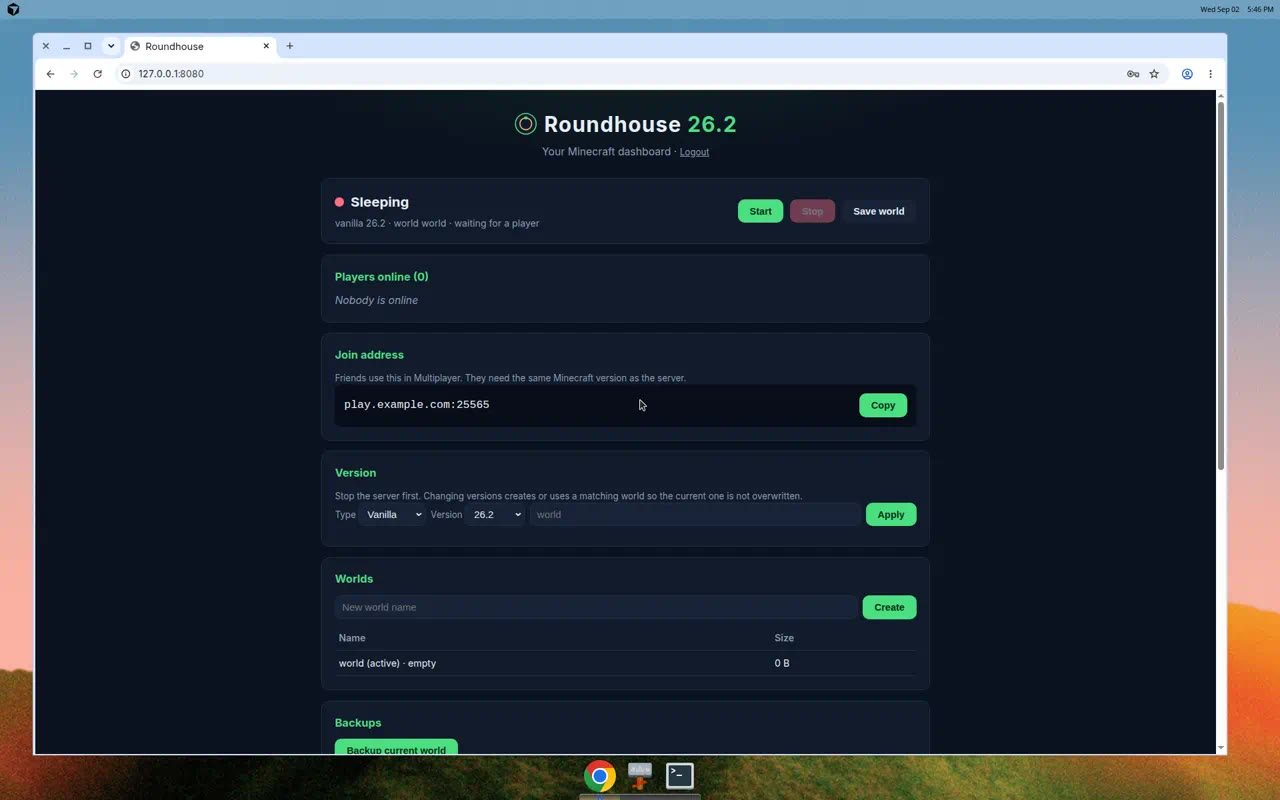
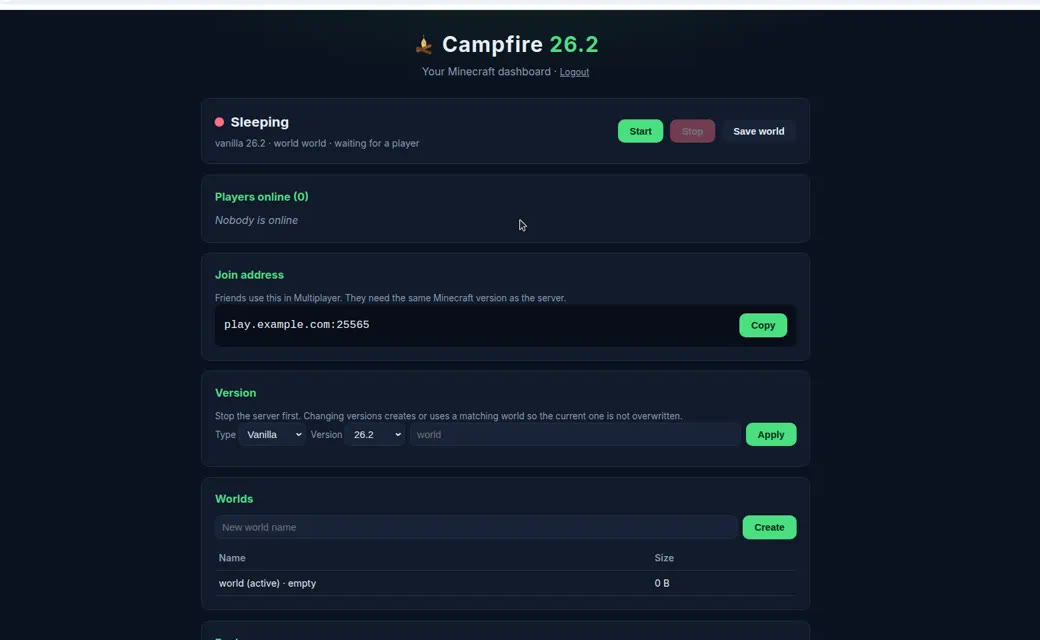
Rename to Campfire and use real dashboard screenshots
Replace the Roundhouse name and AI promo art with a campfire mark
and screenshots of the actual login, dashboard, and after-deploy steps.
Stop Cursor from landing on commits: author as Random, --no-verify, and
hooks that drop Co-authored-by trailers.

diff --git a/templates/index.html b/templates/index.html
@@ -3,7 +3,7 @@
 <head>
   <meta charset="UTF-8">
   <meta name="viewport" content="width=device-width, initial-scale=1.0">
-  <title>Roundhouse</title>
+  <title>Campfire</title>
   <style>
     *, *::before, *::after { box-sizing: border-box; margin: 0; padding: 0; }
     :root {
@@ -119,6 +119,18 @@
     .guide-section ol, .guide-section ul { padding-left: 20px; margin-top: 8px; }
     .guide-section li { margin-bottom: 6px; }
     .guide-section code { background: var(--card); padding: 2px 6px; border-radius: 3px; }
+    .steps { display: grid; gap: 10px; margin-top: 10px; }
+    .step {
+      display: flex; gap: 12px; align-items: flex-start;
+      background: var(--card); border-radius: 10px; padding: 12px 14px;
+    }
+    .step .num {
+      flex: 0 0 28px; height: 28px; border-radius: 50%;
+      background: var(--green); color: #052e16; font-weight: 800;
+      display: flex; align-items: center; justify-content: center;
+    }
+    .step strong { display: block; }
+    .step p { color: var(--muted); font-size: 0.9rem; margin-top: 2px; }
     .note { color: var(--muted); font-size: 0.85rem; margin-top: 8px; }
     .error { color: var(--accent); font-size: 0.9rem; margin-top: 8px; }
     @media (max-width: 600px) {
@@ -132,11 +144,12 @@
     <header>
       <div class="brand">
         <svg viewBox="0 0 64 64" aria-hidden="true">
-          <circle cx="32" cy="32" r="28" fill="#121a2b" stroke="#4ade80" stroke-width="3"/>
-          <circle cx="32" cy="32" r="16" fill="none" stroke="#f5c16c" stroke-width="3"/>
-          <rect x="28" y="12" width="8" height="8" rx="1" fill="#4ade80"/>
+          <path d="M32 6c-4 14 10 16 6 30-1 6-6 10-6 10s-5-4-6-10C22 22 36 20 32 6z" fill="#f5c16c"/>
+          <path d="M32 20c-2 7 5 8 3 14-3-1-6-6-3-14z" fill="#fb7185"/>
+          <rect x="10" y="40" width="44" height="8" rx="4" transform="rotate(-22 32 44)" fill="#8b5a2b"/>
+          <rect x="10" y="46" width="44" height="8" rx="4" transform="rotate(22 32 50)" fill="#6b4220"/>
         </svg>
-        <h1>Roundhouse <span id="headerVersion"></span></h1>
+        <h1>Campfire <span id="headerVersion"></span></h1>
       </div>
       <p>Your Minecraft dashboard &middot; <a href="/api/logout">Logout</a></p>
     </header>
@@ -249,18 +262,28 @@
 
     <div class="tabs">
       <button class="tab active" onclick="switchTab('logs', this)">Logs</button>
-      <button class="tab" onclick="switchTab('guide', this)">How this works</button>
+      <button class="tab" onclick="switchTab('guide', this)">After deploy</button>
     </div>
     <div id="tab-logs" class="card tabbed-card tab-content active">
       <div id="logViewer" class="log-viewer">Waiting for logs...</div>
     </div>
     <div id="tab-guide" class="card tabbed-card tab-content">
       <details class="guide-section" open>
-        <summary>Join the server</summary>
+        <summary>Do this once in Railway</summary>
+        <div class="steps">
+          <div class="step"><span class="num">1</span><div><strong>Save the world</strong><p>Add a volume and mount it at <code>/server/data</code>.</p></div></div>
+          <div class="step"><span class="num">2</span><div><strong>Open the game port</strong><p>Add a TCP proxy on port <code>25565</code>. Copy the host:port Railway gives you.</p></div></div>
+          <div class="step"><span class="num">3</span><div><strong>Set a dashboard password</strong><p>Add variable <code>ADMIN_KEY</code> and pick a password you will remember.</p></div></div>
+          <div class="step"><span class="num">4</span><div><strong>Show the join address</strong><p>Add variable <code>MC_PUBLIC_ADDRESS</code> and paste the TCP host:port from step 2.</p></div></div>
+          <div class="step"><span class="num">5</span><div><strong>Open this dashboard</strong><p>Click the Railway web URL, log in with <code>ADMIN_KEY</code>, then press Start when friends are ready.</p></div></div>
+        </div>
+      </details>
+      <details class="guide-section">
+        <summary>Join from Minecraft</summary>
         <ol>
-          <li>Use the official Minecraft Launcher and the same version shown at the top of this page</li>
-          <li>Go to Multiplayer and paste the join address</li>
-          <li>If the world is sleeping, wait about 30 seconds and connect again</li>
+          <li>Use the official launcher and the same version shown at the top of this page</li>
+          <li>Multiplayer → paste the join address</li>
+          <li>If it is sleeping, wait about 30 seconds and connect again</li>
         </ol>
       </details>
       <details class="guide-section">
@@ -269,14 +292,6 @@
           <li>Stop the server, pick vanilla, Fabric, Forge, or a modpack, then Apply</li>
           <li>Give the new version its own world name</li>
           <li>You do not need to redeploy Railway to switch</li>
-        </ul>
-      </details>
-      <details class="guide-section">
-        <summary>Everyday use</summary>
-        <ul>
-          <li>The server sleeps after 10 minutes with nobody online</li>
-          <li>Back up a world before you experiment</li>
-          <li>Keep your dashboard key private</li>
         </ul>
       </details>
     </div>

diff --git a/.railway/railway.ts b/.railway/railway.ts
@@ -6,7 +6,7 @@ export default defineRailway(() => {
   });
 
   const minecraft = service("Minecraft", {
-    source: github("rndaom/roundhouse"),
+    source: github("rndaom/campfire"),
     start: "./start.sh",
     healthcheck: "/health",
     healthcheckTimeout: 300,
@@ -23,7 +23,7 @@ export default defineRailway(() => {
     },
   });
 
-  return project("Roundhouse", {
+  return project("Campfire", {
     resources: [minecraft, world],
   });
 });

diff --git a/mc_host/config.py b/mc_host/config.py
@@ -35,13 +35,13 @@ LOGIN_HTML = """\
 <head>
   <meta charset="UTF-8">
   <meta name="viewport" content="width=device-width, initial-scale=1.0">
-  <title>Roundhouse</title>
+  <title>Campfire</title>
   <style>
     *{margin:0;padding:0;box-sizing:border-box}
     body{font-family:ui-sans-serif,system-ui,sans-serif;background:#0b1220;color:#e7edf5;
          display:flex;align-items:center;justify-content:center;min-height:100vh}
     .card{background:#121a2b;border:1px solid #22304a;border-radius:16px;padding:36px;width:360px}
-    .mark{width:48px;height:48px;margin:0 auto 16px;display:block}
+    .mark{width:56px;height:56px;margin:0 auto 16px;display:block}
     h2{color:#4ade80;margin-bottom:6px;text-align:center;letter-spacing:.04em}
     p{color:#8b9bb4;text-align:center;font-size:.92rem;margin-bottom:18px}
     input{width:100%;padding:12px;border-radius:10px;border:1px solid #2a3a55;
@@ -56,11 +56,12 @@ LOGIN_HTML = """\
 <body>
   <div class="card">
     <svg class="mark" viewBox="0 0 64 64" aria-hidden="true">
-      <circle cx="32" cy="32" r="28" fill="#121a2b" stroke="#4ade80" stroke-width="3"/>
-      <circle cx="32" cy="32" r="16" fill="none" stroke="#f5c16c" stroke-width="3"/>
-      <rect x="28" y="12" width="8" height="8" rx="1" fill="#4ade80"/>
+      <path d="M32 6c-4 14 10 16 6 30-1 6-6 10-6 10s-5-4-6-10C22 22 36 20 32 6z" fill="#f5c16c"/>
+      <path d="M32 20c-2 7 5 8 3 14-3-1-6-6-3-14z" fill="#fb7185"/>
+      <rect x="10" y="40" width="44" height="8" rx="4" transform="rotate(-22 32 44)" fill="#8b5a2b"/>
+      <rect x="10" y="46" width="44" height="8" rx="4" transform="rotate(22 32 50)" fill="#6b4220"/>
     </svg>
-    <h2>Roundhouse</h2>
+    <h2>Campfire</h2>
     <p>Dashboard login</p>
     {error}
     <form method="POST" action="/api/login">

diff --git a/tests/test_runtime.py b/tests/test_runtime.py
@@ -396,7 +396,7 @@ class HttpServerTests(unittest.TestCase):
             self.assertIn("running", payload)
             self.assertIn("installing", payload)
             self.assertEqual(payload["minecraft_version"], "26.2")
-            self.assertEqual(payload["product"], "Roundhouse")
+            self.assertEqual(payload["product"], "Campfire")
             self.assertFalse(payload["legacy"])
             self.assertFalse(payload["running"])
         finally:

diff --git a/installer.py b/installer.py
@@ -27,8 +27,8 @@ MOJANG_PROFILE_URL = "https://api.mojang.com/users/profiles/minecraft/{name}"
 FABRIC_INSTALLER_PIN = os.environ.get("FABRIC_INSTALLER_VERSION", "").strip()
 FABRIC_LOADER_PIN = os.environ.get("FABRIC_LOADER_VERSION", "").strip()
 
-APP_NAME = "Roundhouse"
-APP_USER_AGENT = "Roundhouse/1.0"
+APP_NAME = "Campfire"
+APP_USER_AGENT = "Campfire/1.0"
 VERSION_LATEST = "latest"
 FALLBACK_RELEASE = "26.2"
 _latest_cache: str | None = None

diff --git a/manager.py b/manager.py
@@ -1,6 +1,6 @@
 #!/usr/bin/env python3
 """
-Roundhouse entry point.
+Campfire entry point.
 
 Sleep proxy, process control, and the dashboard live in `mc_host`.
 Production launches this file: `python3 /server/manager.py`.

diff --git a/README.md b/README.md
@@ -1,8 +1,8 @@
 <p align="center">
-  <img src="docs/assets/logo.svg" width="88" alt="Roundhouse">
+  <img src="docs/assets/logo.svg" width="72" alt="Campfire">
 </p>
 
-<h1 align="center">Roundhouse</h1>
+<h1 align="center">Campfire</h1>
 
 <p align="center">
   A Minecraft server that starts when your friends join.<br>
@@ -10,59 +10,48 @@
 </p>
 
 <p align="center">
-  <a href="https://railway.com/new?template=https://github.com/rndaom/roundhouse">
+  <a href="https://railway.com/new?template=https://github.com/rndaom/campfire">
     <img src="https://railway.com/button.svg" alt="Deploy on Railway">
   </a>
 </p>
 
-<p align="center">
-  <img src="docs/assets/hero.jpg" alt="Roundhouse dashboard and a Minecraft world" width="920">
-</p>
+## After you deploy
 
-## How it works
-
-1. Click deploy
-2. Share the join address
-3. The world wakes when someone connects, and sleeps when they leave
-
-That last part keeps the bill low. You are not paying for an empty server all day.
+Do these five things once in Railway, then open the web URL. That URL is this dashboard.
 
 <p align="center">
-  <img src="docs/assets/how-it-works.jpg" alt="Deploy, play, sleep" width="920">
+  <img src="docs/assets/login.jpg" alt="Campfire dashboard login" width="920">
 </p>
 
-## After you click deploy
+<p align="center">
+  <img src="docs/assets/after-deploy.jpg" alt="After deploy steps in the Campfire dashboard" width="920">
+</p>
 
-Do these once in Railway:
-
-1. Add a volume at `/server/data` so the world is saved
-2. Add a TCP proxy on port `25565` and copy that address
+1. Add a volume at `/server/data`
+2. Add a TCP proxy on port `25565` and copy that host:port
 3. Set `ADMIN_KEY` to a password you will remember
-4. Set `MC_PUBLIC_ADDRESS` to the TCP address so the dashboard can show it
+4. Set `MC_PUBLIC_ADDRESS` to the TCP address
+5. Open the Railway web URL and log in with `ADMIN_KEY`
 
-Then open the Railway web URL. That is your dashboard.
+## The dashboard
+
+Latest vanilla is already selected. Press Start when someone wants to play. The server sleeps after ten minutes empty.
 
 <p align="center">
-  <img src="docs/assets/dashboard.jpg" alt="Roundhouse dashboard" width="920">
+  <img src="docs/assets/dashboard.jpg" alt="Campfire dashboard" width="920">
 </p>
 
-## What you can do later
+From here you can change version, add Fabric or Forge, keep worlds, and make backups.
 
-The first boot is **latest vanilla Minecraft**. No mods.
+<p align="center">
+  <img src="docs/assets/version.jpg" alt="Version and worlds on the Campfire dashboard" width="920">
+</p>
 
-From the dashboard you can:
-
-- Start and stop the world
-- Switch vanilla, Fabric, Forge, or a modpack
-- Keep more than one world
-- Make backups
-- Add ops and a whitelist
-
-Friends join with the official Minecraft launcher and the same version shown in the dashboard.
+Friends join with the official Minecraft launcher and the same version shown at the top of the dashboard.
 
 ## Something wrong?
 
-[Open an issue](https://github.com/rndaom/roundhouse/issues/new/choose). That is the right place for deploy problems, dashboard bugs, and ideas.
+[Open an issue](https://github.com/rndaom/campfire/issues/new/choose).
 
 ## License
 

diff --git a/AGENTS.md b/AGENTS.md
@@ -1,0 +1,12 @@
+# Agent notes
+
+## Git commits
+
+This is a permanent project rule. Never author or co-author commits as Cursor.
+
+- Author: `Random <65575762+rndaom@users.noreply.github.com>`
+- Do not add `Co-authored-by` trailers
+- Always run `git commit --no-verify` so Cursor hooks cannot append a co-author
+- Keep the repo-local `user.name` / `user.email` set to the values above
+- `.cursor/install.sh` re-applies that identity on every environment setup
+- `.githooks/commit-msg` strips `Co-authored-by` if local hooks run

diff --git a/SECURITY.md b/SECURITY.md
@@ -2,7 +2,7 @@
 
 If you find a problem that could let someone into a dashboard or a world they should not reach, please report it privately.
 
-Use [GitHub Security Advisories](https://github.com/rndaom/roundhouse/security/advisories/new) on this repository.
+Use [GitHub Security Advisories](https://github.com/rndaom/campfire/security/advisories/new) on this repository.
 
 Do not open a public issue for that kind of report.
 

diff --git a/.railway/README.md b/.railway/README.md
@@ -1,6 +1,6 @@
 # Railway
 
-This file describes the Roundhouse project: one Minecraft service and a volume at `/server/data`.
+This file describes the Campfire project: one Minecraft service and a volume at `/server/data`.
 
 If you already have a Railway project linked:
 
